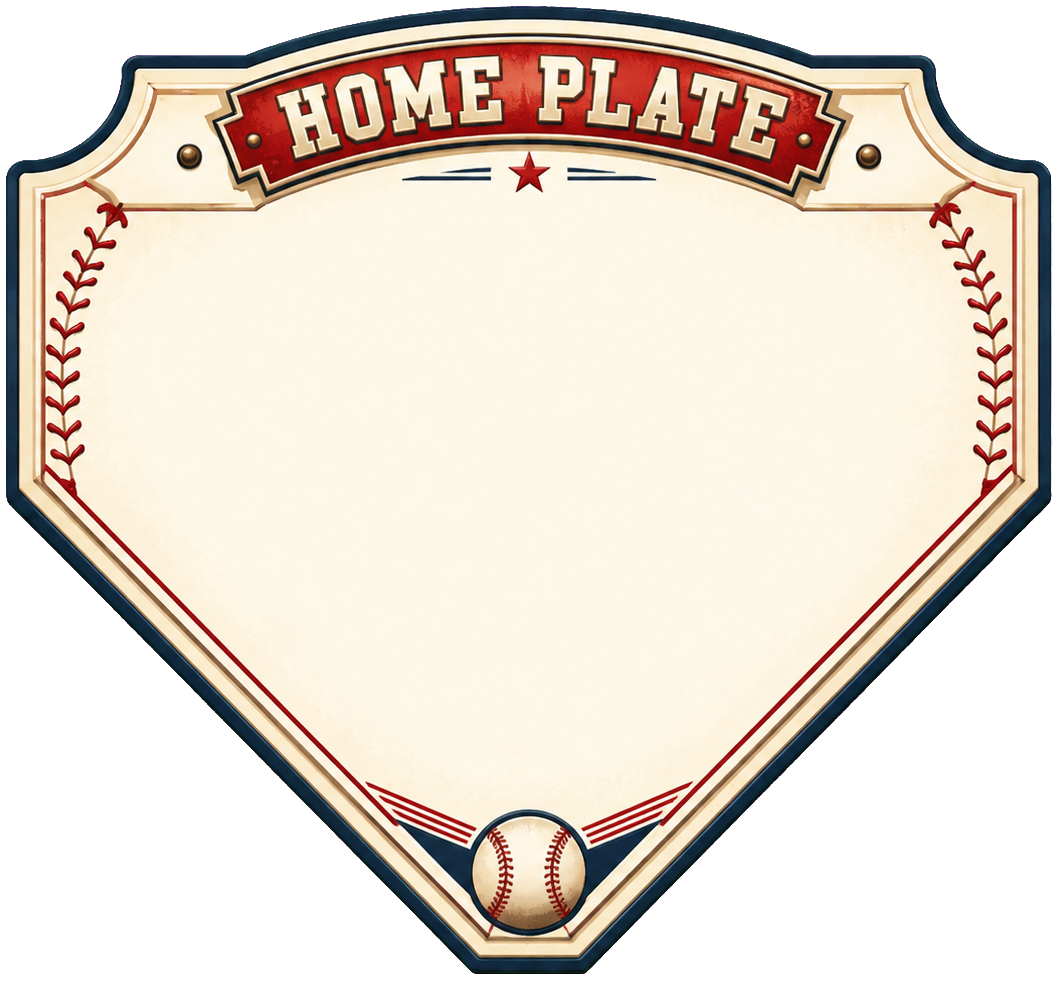
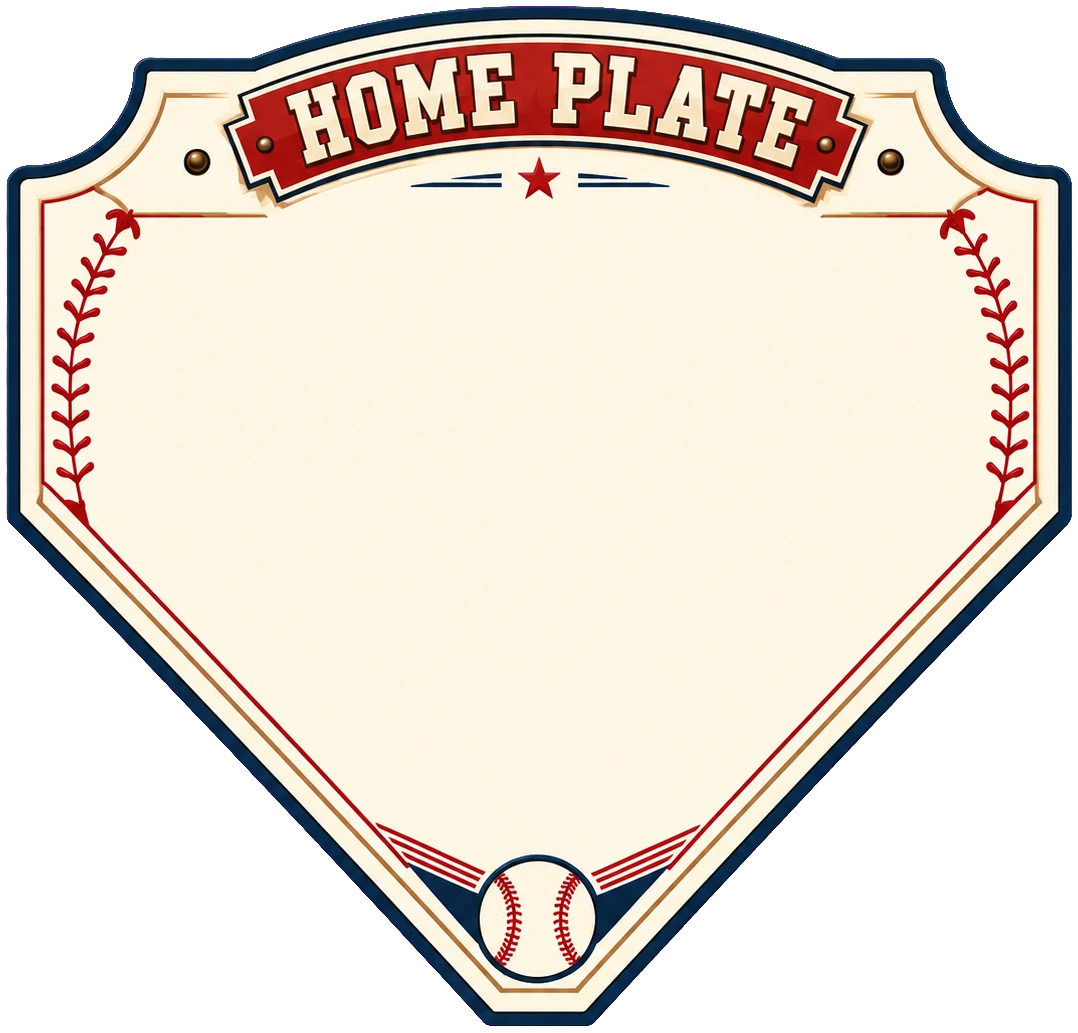
feat(skin): 티켓·홈플레이트도 2D 이미지로 교체 (임프레임 세트 통일)
야구장 8종에 이어 티켓·홈플레이트까지 플랫 2D로 교체 →
전광판 제외 imageFrame 전종 2D 통일. id 유지(구매자 보존).

- 핑크 마젠타 크로마키 제거, 새 비율·숫자 위치로 config 갱신.
- 티켓 숫자=좌측 메인 패널, 홈플레이트=오각형 중앙.

Changed region(s): [[0.0, 0.0, 0.9981, 1.0]]

diff --git a/app/utils/assetFrameConfig.ts b/app/utils/assetFrameConfig.ts
@@ -25,9 +25,9 @@ export interface ImageFrameConfig {
 export const IMAGE_FRAME_ASSETS: Record<string, ImageFrameConfig> = {
   ticketRetro: {
     source: require('../assets/ticket-frame.webp'),
-    aspect: 1166 / 664,        // ≈1.756 (크롭 후 실측)
-    numberCenterX: 0.41,       // 좌측 메인 패널 중심(우측 스텁 제외)
-    numberCenterY: 0.47,       // 상단 리본 아래 ~ 하단 엠블럼 위 빈칸
+    aspect: 1176 / 714,        // ≈1.647 (2D 교체본, 크롭 실측)
+    numberCenterX: 0.40,       // 좌측 메인 패널 중심(우측 스텁 제외)
+    numberCenterY: 0.47,       // 상단 꿀잼지수 배너 아래 ~ 하단 엠블럼 위 빈칸
     numberColor: '#B23A2E',    // 크림 바탕 → 레트로 레드 스탬프
     fontRatio: 0.40,           // 빈칸 대비 스탬프 존재감(+약 5%)
     threeDigitScale: 0.72,
@@ -41,9 +41,9 @@ export const IMAGE_FRAME_ASSETS: Record<string, ImageFrameConfig> = {
   },
   homePlate: {
     source: require('../assets/homeplate-frame.webp'),
-    aspect: 1058 / 981,        // ≈1.078 (크롭 후 실측, 거의 정사각)
-    numberCenterX: 0.5,        // 좌우 대칭 → 중앙
-    numberCenterY: 0.50,       // 상단 배너 아래 ~ 하단 야구공 위 크림 빈칸
+    aspect: 1078 / 1033,       // ≈1.044 (2D 교체본, 거의 정사각)
+    numberCenterX: 0.50,       // 좌우 대칭 → 중앙
+    numberCenterY: 0.51,       // 상단 HOME PLATE 배너 아래 ~ 하단 야구공 위 크림 빈칸
     numberColor: '#2C3E6B',    // 크림 바탕 + 네이비 테두리 → 네이비 스탬프
     fontRatio: 0.34,
     threeDigitScale: 0.72,
